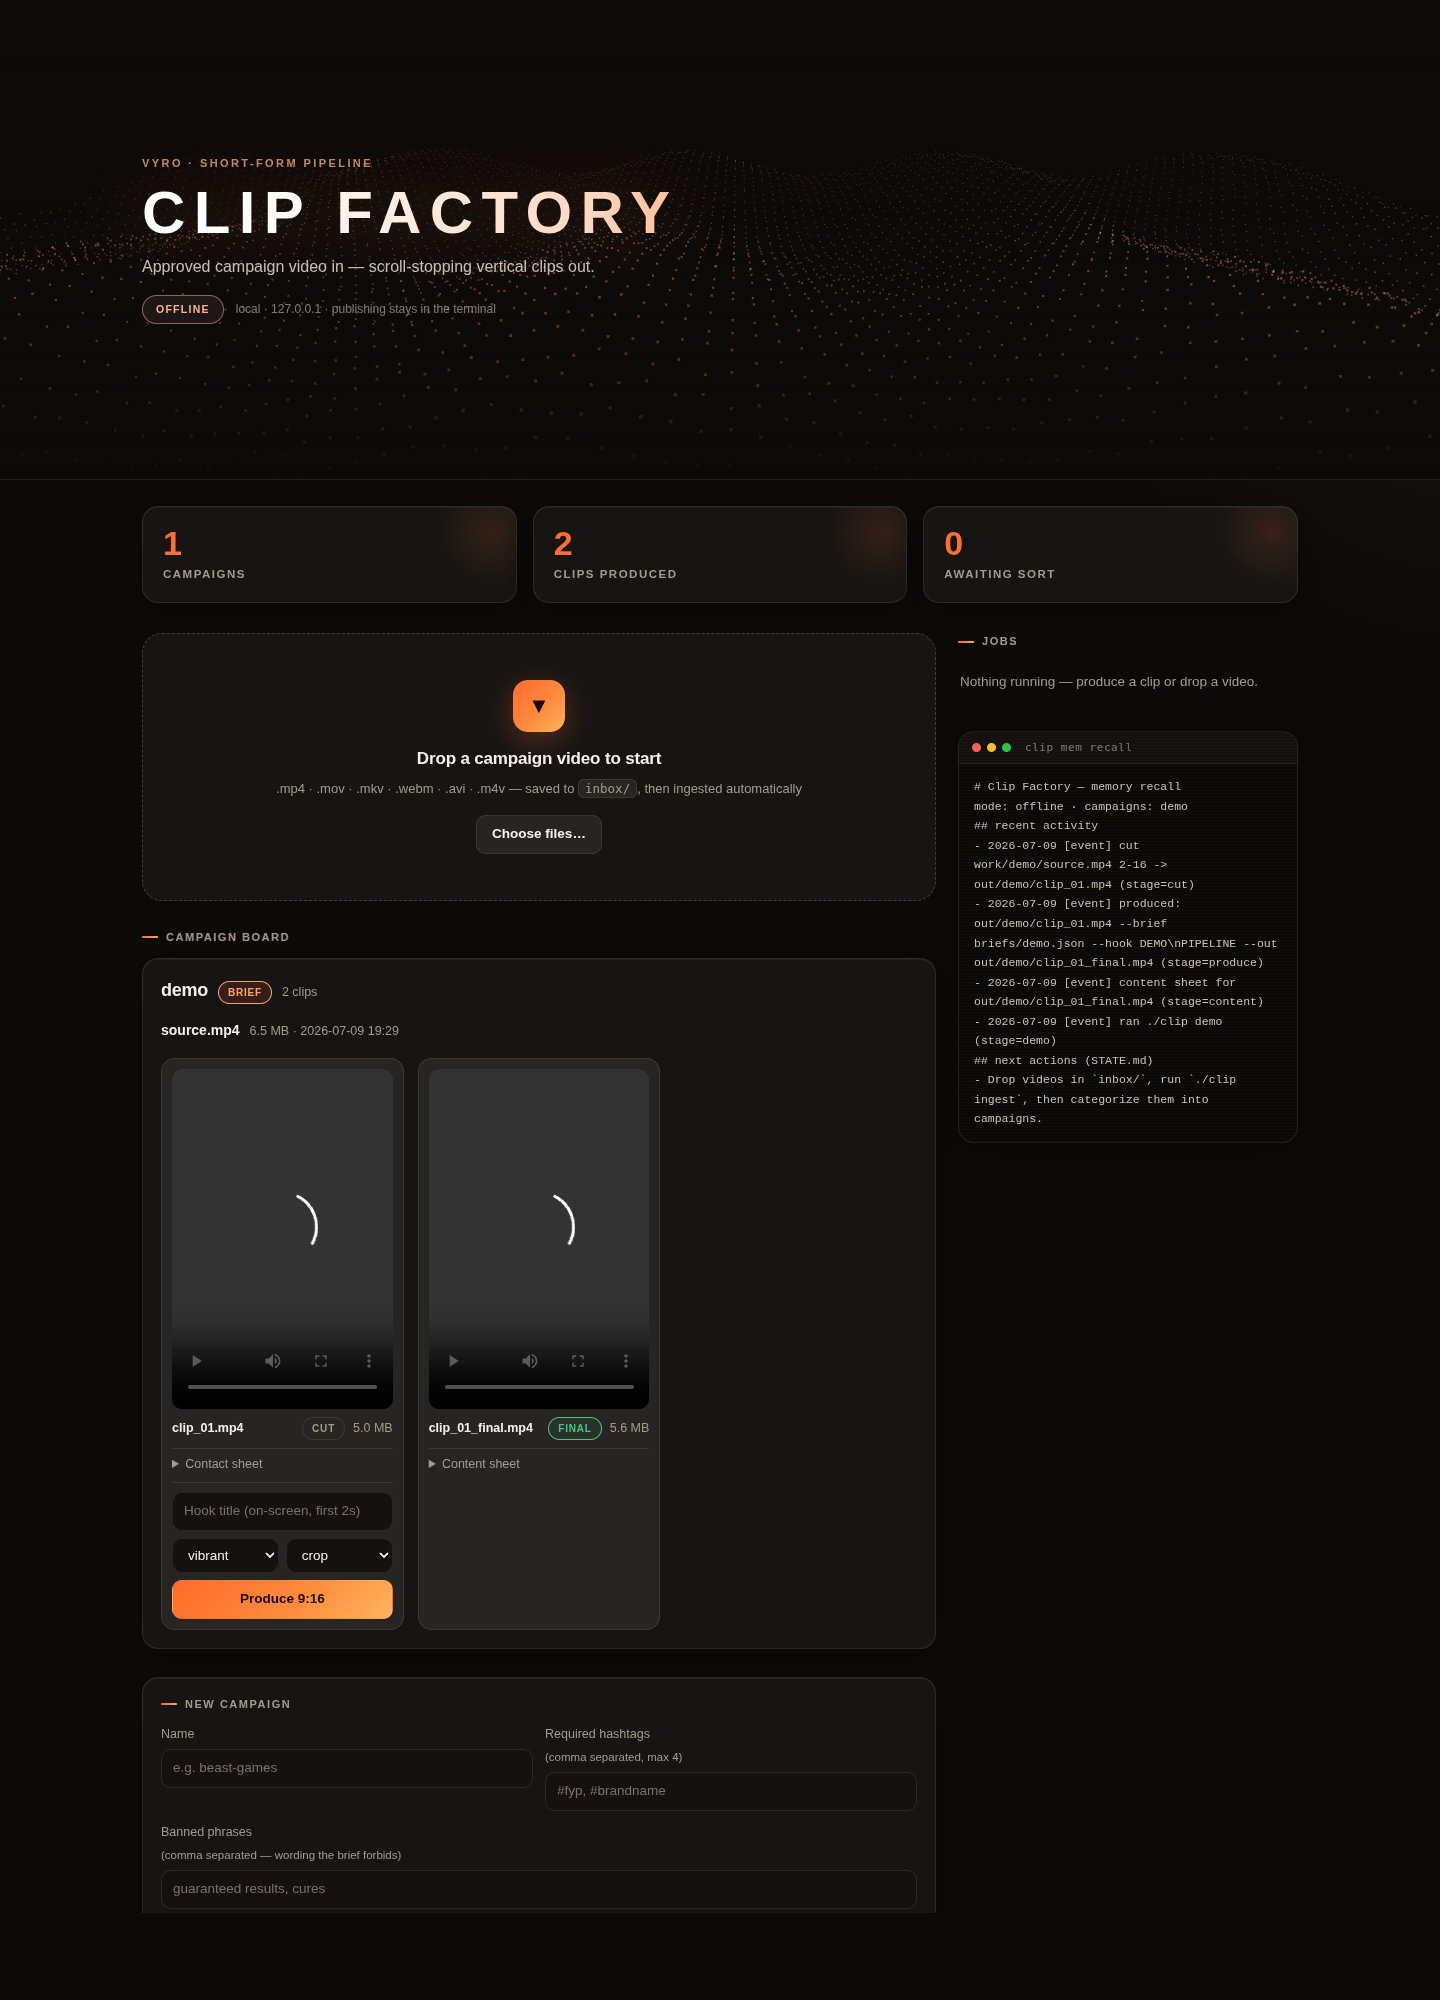
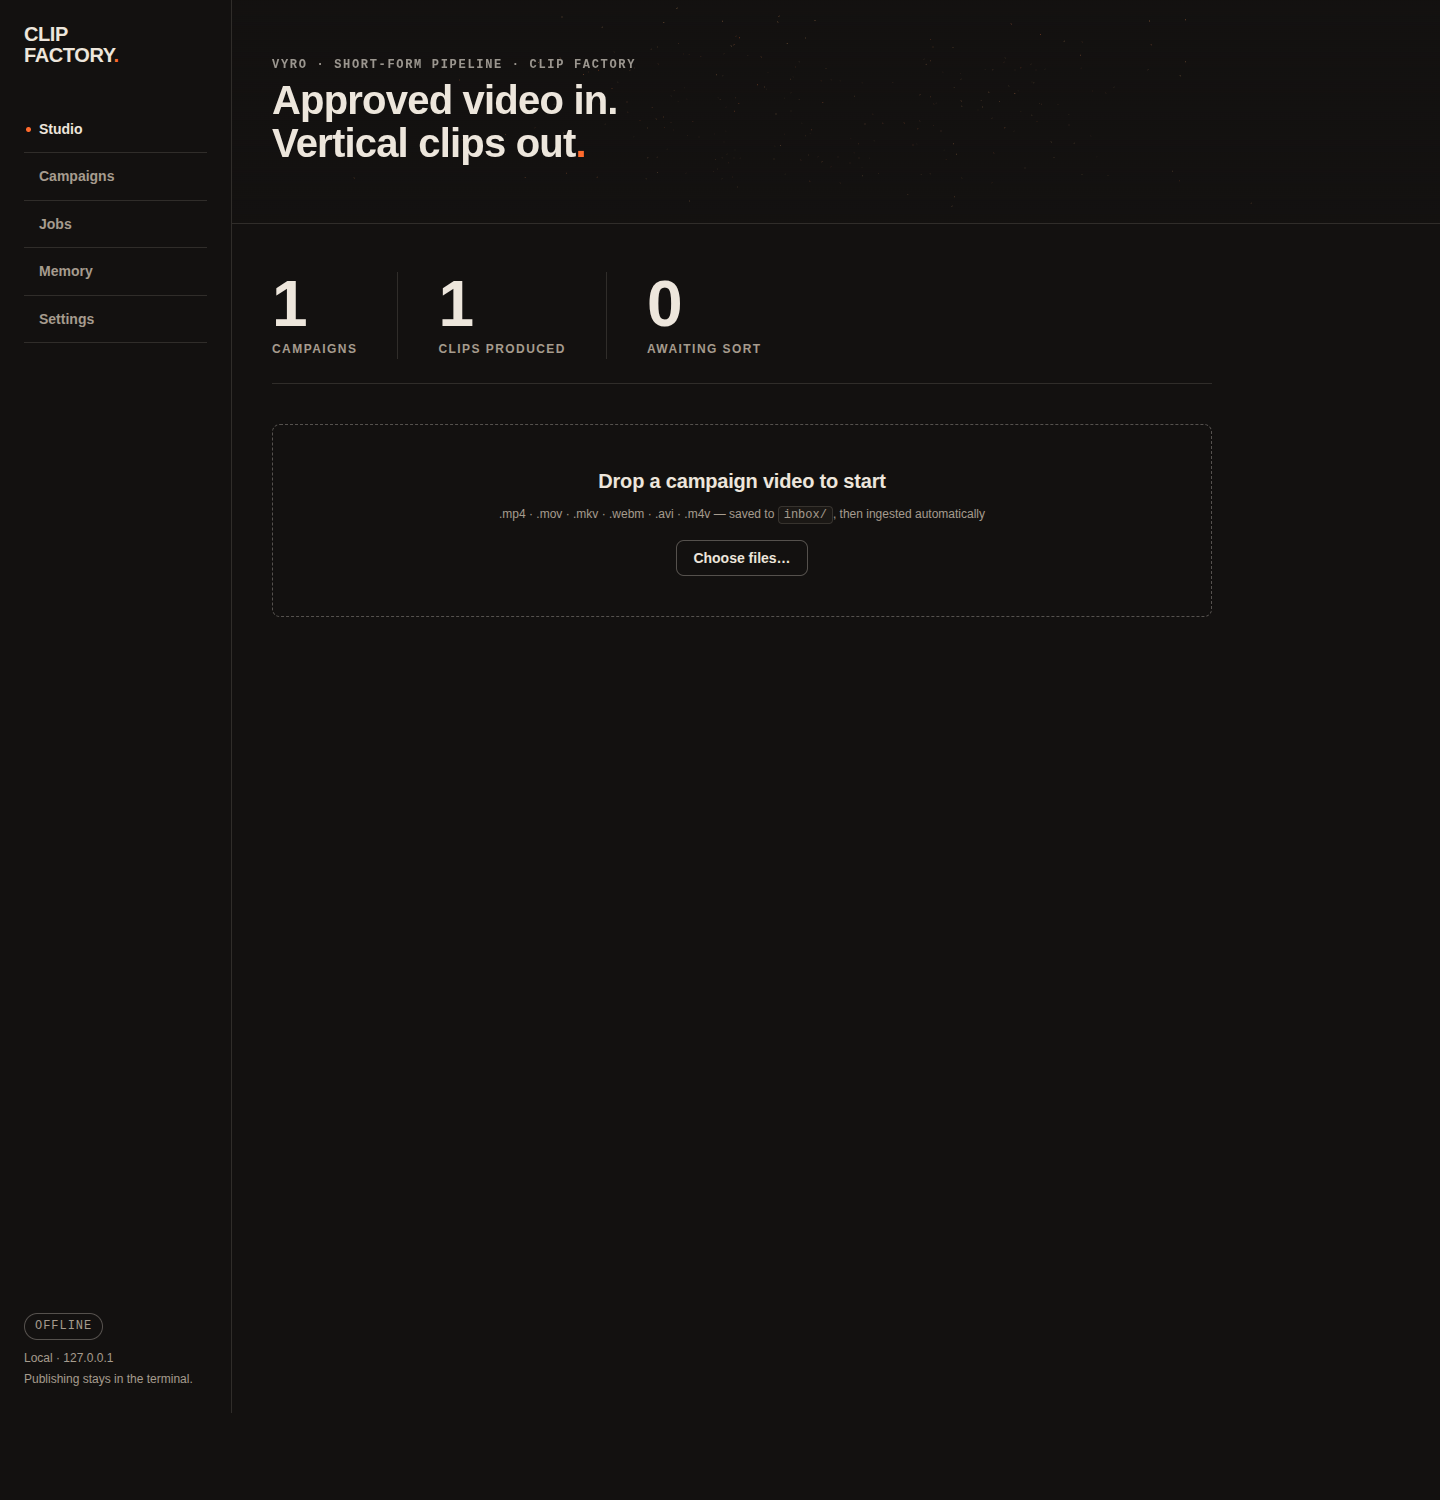
Refresh README screenshots for the editorial UI; add ASSET-LICENSES.md; sync STATE
- docs/img screenshots retaken against the redesigned dashboard so the
  README shows the real product.
- ASSET-LICENSES.md records every bundled/fetched third-party asset with
  source, creator, and license (three.js MIT; fonts OFL/Apache).
- STATE.md next-actions synced to the current build.

Claude-Session: https://claude.ai/code/session_01P5oG4Ypy5MNB6LMZUTcZbg

diff --git a/ASSET-LICENSES.md b/ASSET-LICENSES.md
@@ -1,0 +1,17 @@
+# Asset licenses
+
+Every third-party asset bundled with or fetched by this project, per the
+project rule: record source, creator, and license; prefer clear commercial
+licenses; download instead of hotlinking.
+
+| Asset | Source | Creator | License | How it gets here |
+|-------|--------|---------|---------|------------------|
+| `assets/vendor/three.min.js` (r158) | https://github.com/mrdoob/three.js | three.js authors | MIT | vendored in repo |
+| Anton | https://github.com/google/fonts (ofl/anton) | Vernon Adams | SIL OFL 1.1 | `./clip fx fonts` (not committed) |
+| Bebas Neue | https://github.com/google/fonts (ofl/bebasneue) | Ryoichi Tsunekawa | SIL OFL 1.1 | `./clip fx fonts` |
+| Archivo Black | https://github.com/google/fonts (ofl/archivoblack) | Omnibus-Type | SIL OFL 1.1 | `./clip fx fonts` |
+| Luckiest Guy | https://github.com/google/fonts (apache/luckiestguy) | Astigmatic | Apache-2.0 | `./clip fx fonts` |
+
+Campaign footage is never an "asset" of this repo — only source video the
+campaign owner approved may be clipped, and it stays out of git (`work/`,
+`out/`, `inbox/` are ignored).

diff --git a/STATE.md b/STATE.md
@@ -31,6 +31,7 @@ _Last updated: 2026-07-10 · by: Claude Code (project build session)_
 (none)
 
 ## Next actions
-- Toolkit is fully built (pipeline, web UI, memory, CI — 7 PRs merged).
+- Toolkit complete (9 PRs merged): pipeline, editorial web UI + settings manager,
+  cross-AI memory, straight block wordmark, CI, asset license ledger.
 - Drop campaign videos in `inbox/` (or onto `./clip ui`) to start the first real batch.
 - Owner: rename the GitHub repo to `clip-factory` in Settings.